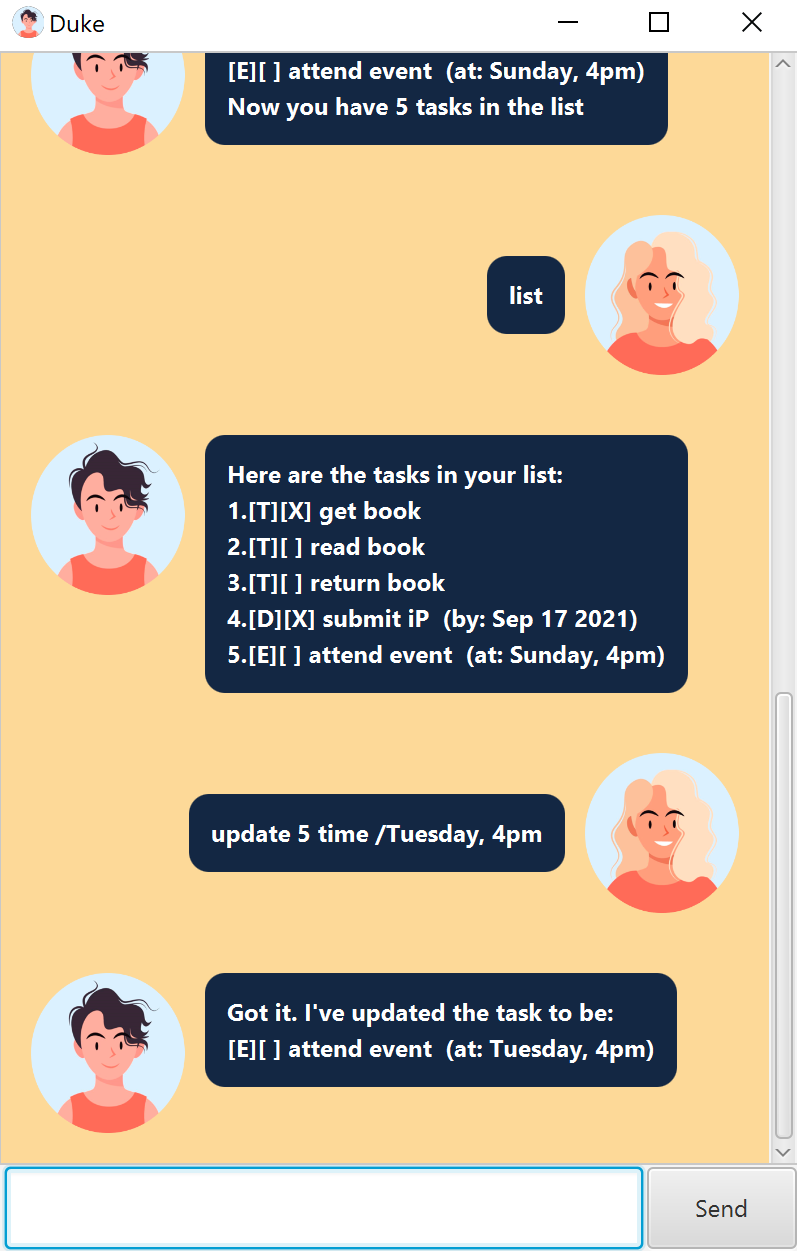
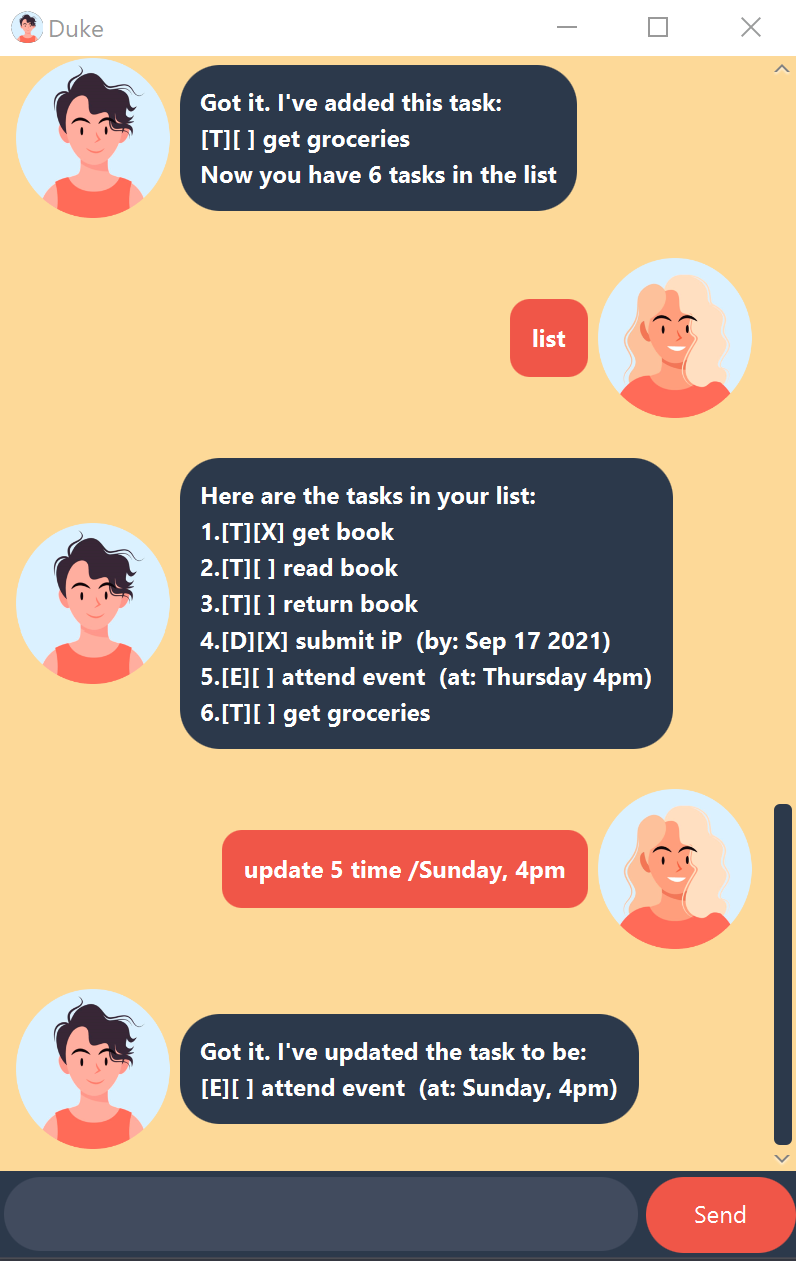
Improve GUI

diff --git a/src/main/resources/view/application.css b/src/main/resources/view/application.css
@@ -1,0 +1,21 @@
+/* solution adapted from @sharmainec */
+
+.root{
+    -fx-background-color: #2C394B;
+}
+
+.scroll-pane{
+    -fx-background-color: #FDD998;
+}
+
+.scroll-pane .viewport {
+    -fx-background-color: #FDD998;
+}
+
+.scroll-bar:vertical{
+    -fx-background-color:transparent;
+}
+
+.scroll-bar:vertical .thumb {
+    -fx-background-color: #2C394B;
+}

diff --git a/src/main/java/duke/gui/DialogBox.java b/src/main/java/duke/gui/DialogBox.java
@@ -52,7 +52,7 @@ public class DialogBox extends HBox {
         ObservableList<Node> tmp = FXCollections.observableArrayList(this.getChildren());
         Collections.reverse(tmp);
         getChildren().setAll(tmp);
-        setAlignment(Pos.TOP_LEFT);
+        setAlignment(Pos.CENTER_LEFT);
     }
 
     public static DialogBox getUserDialog(String text, Image img) {
@@ -62,6 +62,7 @@ public class DialogBox extends HBox {
     public static DialogBox getDukeDialog(String text, Image img) {
         var db = new DialogBox(text, img);
         db.flip();
+        db.dialog.setStyle("-fx-background-color: #2C394B; -fx-text-fill: white; -fx-background-radius: 20;");
         return db;
     }
 }
